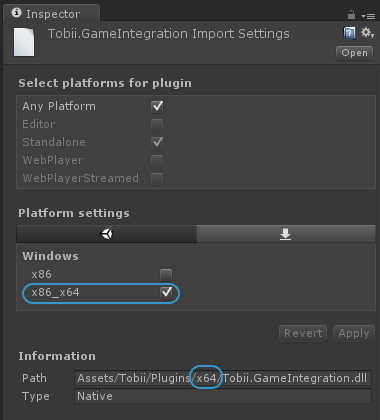
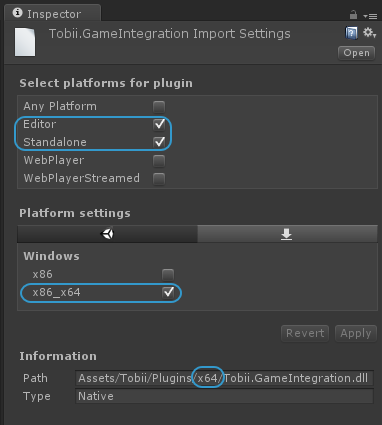
change sdk name update screenshots in docs

diff --git a/docs/_layouts/default.html b/docs/_layouts/default.html
@@ -3,7 +3,7 @@
   <head>
     <meta charset="utf-8">
     <meta http-equiv="X-UA-Compatible" content="chrome=1">
-    <title>Tobii Gaming SDK for Unity - {{ page.title }}</title>
+    <title>Tobii Unity SDK for Desktop - {{ page.title }}</title>
 	<link href="https://fonts.googleapis.com/css?family=Roboto" rel="stylesheet">
     <link rel="stylesheet" href="{{ '/assets/css/style.css?v=' | append: site.github.build_revision | relative_url }}">
     <link rel="shortcut icon" href="{{ site.github.url }}/images/Tobii_favicon_black_32x32.png">

diff --git a/docs/manual.md b/docs/manual.md
@@ -42,18 +42,18 @@ Make sure your system fulfills the [System Requirements](#system-requirements).
 
 Follow the instructions included with your eye tracker to download and install the correct Tobii Engine runtime software. Make sure the eye tracker and software is working correctly.
 
-### Step 2: Download the Tobii Gaming SDK for Unity
+### Step 2: Download the Tobii Unity SDK for Desktop
 
-If you haven't already done so, download the Tobii Gaming SDK for Unity from [Tobii Developer Zone (http://developer.tobii.com)](http://developer.tobii.com). You need to be logged in to access the Downloads page. You can create an account for free, it only takes a couple of minutes.
+If you haven't already done so, download the Tobii Unity SDK for Desktop from [Tobii Developer Zone (http://developer.tobii.com)](http://developer.tobii.com). You need to be logged in to access the Downloads page. You can create an account for free, it only takes a couple of minutes.
 
 
 ### Step 3: Import the SDK assets to a new Unity project
 
-Save the Tobii Gaming SDK for Unity unitypackage file in an easy to remember place on disk. This unitypackage includes all the Tobii Gaming SDK assets and demo scenes.
+Save the Tobii Unity SDK for Desktop unitypackage file in an easy to remember place on disk. This unitypackage includes all the Tobii Unity SDK assets and demo scenes.
 
 Open Unity, and create a New Unity Project. Select [Windows as Target Platform](#set-windows-as-target-platform).
 
-[Import all assets](#import-the-sdk-assets) from the Tobii Gaming SDK unitypackage.
+[Import all assets](#import-the-sdk-assets) from the Tobii Unity SDK for Desktop unitypackage.
 
 
 ### Step 4: Get to know the API and the eye-gaze data
@@ -83,7 +83,7 @@ Section contents:
 
 ### Import the assets
 
-Make sure Windows is the selected Target Platform in the build settings. Import the Tobii Gaming SDK for Unity unitypackage to your game (the `DemoScenes` folder is optional).
+Make sure Windows is the selected Target Platform in the build settings. Import the Tobii Unity SDK for Desktop unitypackage to your game (the `DemoScenes` folder is optional).
 
 
 ### Implement eye tracking features
@@ -162,7 +162,7 @@ Note that Gaze Aware objects might not be a good fit for your particular game ge
 
 ##### Configure Gaze Focus layers for Gaze Aware objects
 
-If you use the Gaze Aware component, you should set up the Gaze Focus detection layers. By default, the first time you press 'Play' in a game that uses some Tobii Gaming SDK feature, default settings for Gaze Focus are created. The default settings selects all existing  layers to be tested for Gaze Aware objects. If a new layer is added to the game at a later point, and you want it to be tested for Gaze Aware objects, the layer has to be manually checked in the Gaze Focus layers dropdown menu. (Note that UI elements like buttons and labels do not work with the Gaze Aware component since the feature only works with objects with a `UnityEngine.Collider`).
+If you use the Gaze Aware component, you should set up the Gaze Focus detection layers. By default, the first time you press 'Play' in a game that uses some Tobii Unity SDK feature, default settings for Gaze Focus are created. The default settings selects all existing  layers to be tested for Gaze Aware objects. If a new layer is added to the game at a later point, and you want it to be tested for Gaze Aware objects, the layer has to be manually checked in the Gaze Focus layers dropdown menu. (Note that UI elements like buttons and labels do not work with the Gaze Aware component since the feature only works with objects with a `UnityEngine.Collider`).
 
 Open the Eye Tracking Settings window from the Edit menu:
 `Edit` &rarr; `Eye Tracking Settings...`
@@ -177,7 +177,7 @@ Click to open the Gaze Focus Layers multi-selection dropdown and make sure that 
 
 ### Build for standalone
 
-The Tobii Gaming SDK assets include an editor script for copying the correct plugin dll's to the build output folder. The Tobii Gaming SDK features are currently only available and working for PC (Windows 10/8.1/7), but the framework compiles on Mac and Linux as well (without copying the dll's).
+The Tobii Unity SDK assets include an editor script for copying the correct plugin dll's to the build output folder. The Tobii Unity SDK features are currently only available and working for PC (Windows 10/8.1/7), but the framework compiles on Mac and Linux as well (without copying the dll's).
 
 
 [&uarr; Back to Section start](#integrate-the-sdk-into-your-game) | [&uarr; Back to Top](#user-manual)
@@ -187,9 +187,9 @@ The Tobii Gaming SDK assets include an editor script for copying the correct plu
 
 It might be tempting to skip this part of the documentation, but I promise you that it will save you time later to at least browse through it.
 
-This section gives an overview of the features available in the Tobii Gaming SDK for Unity. It introduces the core concepts and gives you insight into what tools and features the SDK has to offer you, and how they work.
+This section gives an overview of the features available in the Tobii Unity SDK. It introduces the core concepts and gives you insight into what tools and features the SDK has to offer you, and how they work.
 
-For API details on each class and function, see the Tobii Gaming SDK for Unity [Scripting Reference](scripting-api).
+For API details on each class and function, see the Tobii Unity SDK [Scripting Reference](scripting-api).
 
 Section contents:
 
@@ -203,7 +203,7 @@ Section contents:
 
 ### TobiiAPI
 
-The static functions of the [TobiiAPI](scripting-api#tobiiapi) class is the essential API of the Tobii Gaming SDK for Unity.
+The static functions of the [TobiiAPI](scripting-api#tobiiapi) class is the essential API of the Tobii Unity SDK.
 
 Include the line
 
@@ -270,7 +270,7 @@ In most cases it's also very important to know that you are working with recent 
 
 ### Gaze Focus and GazeAware component
 
-The Tobii Gaming SDK has built-in support for mapping eye-gaze data to game-objects. We call this feature Gaze Focus. Rather than just mapping every gaze point to a game-object the idea is that an object that has Gaze Focus is intentionally focused by the user. To do this, we are under the hood using algorithms that take series of gaze points, the history of focused objects and timings in human perception into account. 
+The  Tobii Unity SDK has built-in support for mapping eye-gaze data to game-objects. We call this feature Gaze Focus. Rather than just mapping every gaze point to a game-object the idea is that an object that has Gaze Focus is intentionally focused by the user. To do this, we are under the hood using algorithms that take series of gaze points, the history of focused objects and timings in human perception into account. 
 
 These gaze to object mapping algorithms were introduced in the 2.0 version of the SDK. The plan is to refine the algorithms continually in future versions of the framework. The goal is to have a fast and robust calculation that works for different eye tracker models with different characteristics in accuracy and precision, but also over a broad set of different eye-gaze characteristics of end-users.
 
@@ -287,9 +287,9 @@ Gaze Focus is only available for 3D game objects with a `UnityEngine.Collider`. 
 
 ## System Requirements
 
-Version 3.0 of the Tobii Gaming SDK for Unity requires the following setup on your computer:
+Version 3.0 of the Tobii Unity SDK for Desktop requires the following setup on your computer:
 
-- Unity 5 / 4.5 or higher (the Demo Scenes require Unity 5)
+- Unity 5 / 4.5 or higher (the Demo Scenes require Unity 5.3.7f1, the scripts work with Unity 5.0.0f4)
 - Windows 10, 8.1, or 7
 - Tobii Eye Tracking Core Software (either downloaded install bundle for peripheral eye tracker, or pre-installed on integrated systems)
 - Tobii consumer eye tracker peripheral or built-in device. You can find information about available products here: [https://tobiigaming.com/products/](https://tobiigaming.com/products/).
@@ -323,8 +323,8 @@ In the Unity Editor menu, select: `Assets` &rarr; `Import Assets` &rarr; `Custom
 
 ![](./images/editor-menu-assets-import-package-custom-package.png)
 
-- Browse to the root folder of the Tobii Gaming SDK package you have downloaded and extracted to disk
-- Select the Tobii Gaming SDK unitypackage
+- Browse to the root folder of the Tobii Unity SDK for Desktop package you have downloaded and extracted to disk
+- Select the Tobii Unity SDK for Desktop unitypackage
 - Import all assets in the package
 
 [&uarr; Back to Top](#user-manual)

diff --git a/docs/scripting-api.md b/docs/scripting-api.md
@@ -32,7 +32,7 @@ ________________________________________________________________________________
 
 static class in `Tobii.Gaming` namespace
 
-The TobiiAPI is a static API that provides direct access to the most common and useful functionality of the Tobii Gaming Framework.
+The TobiiAPI is a static API that provides direct access to the most common and useful functionality of the Tobii Unity SDK framework.
 
 [&rarr; View in Manual](manual#tobii-api)
 
@@ -41,7 +41,7 @@ The TobiiAPI is a static API that provides direct access to the most common and 
 
 `TobiiAPI` is a static class with static methods to easily access data from a connected Tobii eye tracker.
 
-To get access to `TobiiAPI`, import the Tobii Gaming SDK into your project and add the following using (at the top of the script file where you want to use the Tobii API):
+To get access to `TobiiAPI`, import the Tobii Unity SDK into your project and add the following using (at the top of the script file where you want to use the Tobii API):
 
 ```csharp
 using Tobii.Gaming;
@@ -485,7 +485,7 @@ value type in `Tobii.Gaming` namespace
 
 A `GazePoint` represents a point on the screen where the user is looking (or where the user's eye-gaze intersects with the screen plane).
 
-Always check if a `GazePoint` is valid before using it, checking `IsValid` property or use `IsRecent()` function to ensure that it's both valid and recent. Invalid points will be returned by the Tobii Gaming framework during startup and shutdown, a few frames after calling [`TobiiAPI.GetGazePoint()`](#tobiiapigetgazepoint) (or [`TobiiAPI.SubsribeGazePointData()`](#tobiiapisubscribegazeposedata)) for the first time, and if the data provider is stopped for some reason. Invalid points will always be returned on unsupported standalone platforms, currently Mac and Linux.
+Always check if a `GazePoint` is valid before using it, checking `IsValid` property or use `IsRecent()` function to ensure that it's both valid and recent. Invalid points will be returned by the Tobii Unity SDK framework during startup and shutdown, a few frames after calling [`TobiiAPI.GetGazePoint()`](#tobiiapigetgazepoint) (or [`TobiiAPI.SubsribeGazePointData()`](#tobiiapisubscribegazeposedata)) for the first time, and if the data provider is stopped for some reason. Invalid points will always be returned on unsupported standalone platforms, currently Mac and Linux.
 
 The `PreciseTimestamp` can be used to compare the timestamps between two `GazePoint`s with high accuracy.
 
@@ -526,7 +526,7 @@ value type in `Tobii.Gaming` namespace
 
 A `HeadPose` represents the head position and rotation of the user's head.
 
-Always check if a `HeadPose` is valid before using it. Invalid points will be returned by the Tobii Gaming framework during startup and shutdown, a few frames after calling [`TobiiAPI.GetHeadPose()`](#tobiiapigetheadpose) (or [`TobiiAPI.SubscribeHeadPoseData()`](#tobiiapisubscribeheadposedata)) for the first time, and if the data provider is stopped for some reason. Invalid points will always be returned on unsupported standalone platforms, currently Mac and Linux.
+Always check if a `HeadPose` is valid before using it. Invalid points will be returned by the Tobii Unity SDK framework during startup and shutdown, a few frames after calling [`TobiiAPI.GetHeadPose()`](#tobiiapigetheadpose) (or [`TobiiAPI.SubscribeHeadPoseData()`](#tobiiapisubscribeheadposedata)) for the first time, and if the data provider is stopped for some reason. Invalid points will always be returned on unsupported standalone platforms, currently Mac and Linux.
 
 The `PreciseTimestamp` can be used to compare the timestamps between two `HeadPose`s with high accuracy.
 

diff --git a/docs/troubleshooting.md b/docs/troubleshooting.md
@@ -8,7 +8,8 @@ If things are not working as you expected, please check out the following small 
 ## Contents
 
 - ["Tobii.GameIntegration.dll could not be loaded"](#tobiigameintegrationdll-could-not-be-loaded)
-- ["Tobii Gaming SDK only supports building for Standalone build targets"](#tobii-gaming-sdk-only-supports-building-for-standalone-build-targets)
+- ["Multiple plugins with the same name 'tobii.gameintegration'"](#multiple-plugins-with-the-same-name-tobiigameintegration)
+- ["Tobii Unity SDK only supports building for Standalone build targets"](#tobii-unity-sdk-only-supports-building-for-standalone-build-targets)
 - ["I get invalid data"](#i-get-invalid-data)
 - ["My Gaze Aware objects are not reacting to eye-gaze"](#my-gaze-aware-objects-are-not-reacting-to-eye-gaze)
 - ["The gaze points are offset to the upper-left"](#the-gaze-points-are-offset-to-the-upper-left)
@@ -37,14 +38,19 @@ Locate the dll's in the Project window in the Unity Editor (`Assets/Tobii/Plugin
 [&uarr; Back to Top](#troubleshooting)
 
 
-## "Tobii Gaming SDK only supports building for Standalone build targets"
+## "Multiple plugins with the same name 'tobii.gameintegration'"
+
+See [3. Dll platform settings](#3-dll-platform-settings) above. You might need to uncheck `Any Platform` alternative in the `Select platforms for plugin` section, and only have the `Editor` and `Standalone` alternatives checked.
+
+
+## "Tobii Unity SDK only supports building for Standalone build targets"
 
 If you get the error message:
->"Tobii Gaming SDK only supports building for Standalone build targets. Eye-gaze data is only available on the Windows platform. Change platform in build settings to make the EyeTracking features work."
+>"Tobii Unity SDK only supports building for Standalone build targets. Eye-gaze data is only available on the Windows platform. Change platform in build settings to make the Eye Tracking features work."
 
 Check your build settings and make sure Platform is set to "PC, Mac & Linux Standalone". See also: [Set Windows as Target Platform](manual#set-windows-as-target-platform)
 
-The Tobii Gaming SDK for Unity only provides data on Windows 10/8.1/7, and only builds without errors for standalone platforms (Windows, Mac and Linux).
+The Tobii Unity SDK only provides data on Windows 10/8.1/7, and only builds without errors for standalone platforms (Windows, Mac and Linux).
 
 
 [&uarr; Back to Top](#troubleshooting)
@@ -59,7 +65,7 @@ Getting invalid eye-gaze data is _expected_ in the following situations:
 - for a few frames following the first call to a value function,
 - during game shutdown,
 - on unsupported platforms (like Mac and Linux)
-- when the Tobii Gaming SDK Framework is not getting any data from the eye tracker:
+- when the Tobii Unity SDK framework is not getting any data from the eye tracker:
   - when the eye tracker is not connected
   - when the user has disabled eye tracking in the Tobii EyeTracking settings
   - when you are not looking at the screen

diff --git a/docs/eyetracking-features.md b/docs/eyetracking-features.md
@@ -66,7 +66,7 @@ If the gaze point is inside the area, the opacity of the UI element is lerped fa
 
 If the gaze point falls outside the area, the transparency of the UI element is lerped slowly towards (almost) full transparency. Slow in this case is a value of around one second.
 
-For some UI elements it might be suitable to add a delay before starting to lerp towards full transparency so that the element stays fully opaque a little while after the user has stopped looking at it. (The Clean UI scripts included in the Tobii Gaming SDK for Unity do not have this kind of delay.)
+For some UI elements it might be suitable to add a delay before starting to lerp towards full transparency so that the element stays fully opaque a little while after the user has stopped looking at it. (The Clean UI scripts included in the Tobii Unity SDK do not have this kind of delay.)
 
 Another way to extend this algorithm could be to always display new messages at full transparency until they are looked at.
 
@@ -103,7 +103,7 @@ Interact at gaze allows the player to interact with an object in a game by press
 
 ### Algorithm - Interact at Gaze
 
-The Tobii Gaming SDK for Unity comes with built-in support for basic gaze-to-object-mapping. It uses ray casts to find which object is hit by each gaze point and keeps a score to decide which object is most likely looked at at any given moment. There are time thresholds so that only recent enough hits are considered, but also an onset threshold to avoid a too flickery behavior when a series of gaze points hits two objects close to each other.
+The Tobii Unity SDK comes with built-in support for basic gaze-to-object-mapping. It uses ray casts to find which object is hit by each gaze point and keeps a score to decide which object is most likely looked at at any given moment. There are time thresholds so that only recent enough hits are considered, but also an onset threshold to avoid a too flickery behavior when a series of gaze points hits two objects close to each other.
 
 For more information on how to use the Unity implementation, see the [Gaze Focus and GazeAware component](manual#gaze-focus-and-gazeaware-component) section in the User Manual.
 

diff --git a/docs/index.md b/docs/index.md
@@ -1,3 +1,3 @@
 ---
-redirect_to: "/TobiiGamingUnitySDK/manual"
+redirect_to: "/UnitySDK/manual"
 ---

diff --git a/README.md b/README.md
@@ -1,4 +1,4 @@
-# Tobii Gaming SDK for Unity
+# Tobii Unity SDK for Desktop
 
 
 # License
